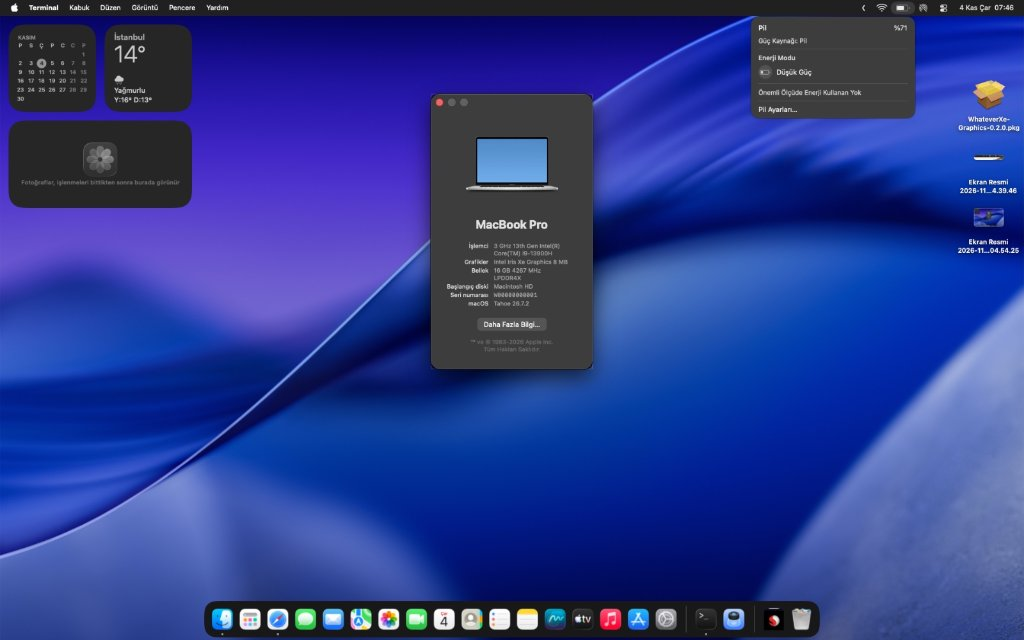
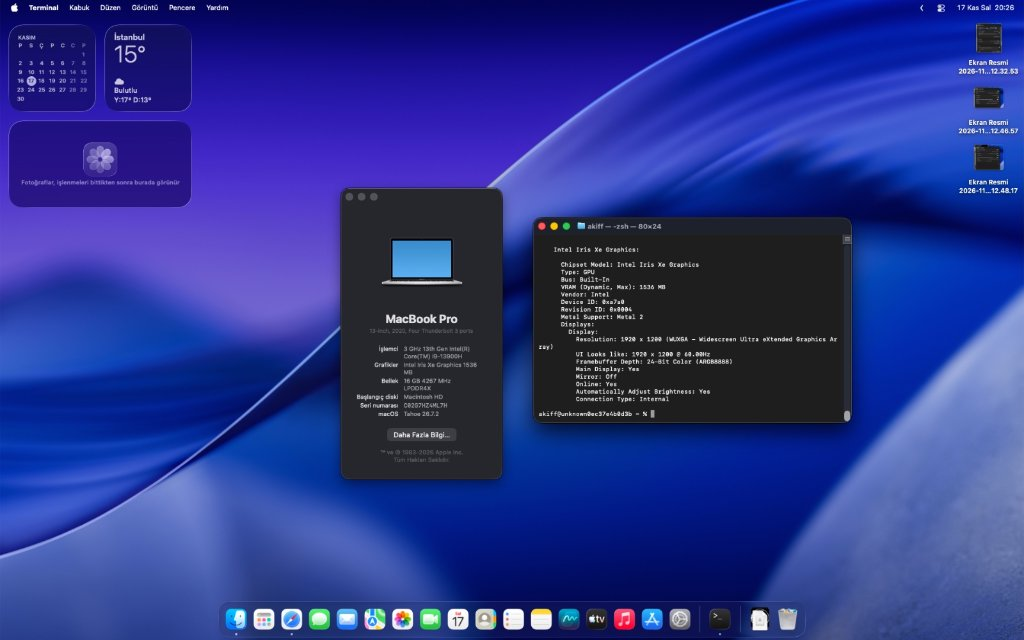
docs: celebrate breakthrough - full graphics acceleration, native AUX brightness, hall sensor sleep, and Airport Wi-Fi

diff --git a/README_TR.md b/README_TR.md
@@ -9,7 +9,7 @@
   <img src="https://img.shields.io/badge/macOS-Sonoma%20%7C%20Sequoia%20%7C%20Tahoe-blue?style=for-the-badge&logo=apple&logoColor=white" alt="macOS Sürümleri"/>
   <img src="https://img.shields.io/badge/OpenCore-1.0.4+-brightgreen?style=for-the-badge" alt="OpenCore Sürümü"/>
   <img src="https://img.shields.io/badge/Mimari-Raptor%20Lake--H-orange?style=for-the-badge&logo=intel&logoColor=white" alt="Mimari"/>
-  <img src="https://img.shields.io/badge/Durum-Kararlı%20Günlük%20Kullanım-success?style=for-the-badge" alt="Durum"/>
+  <img src="https://img.shields.io/badge/Durum-Tam%20Grafik%20Hızlandırma%20%26%20Çalışıyor-success?style=for-the-badge" alt="Durum"/>
 </p>
 
 ---
@@ -20,11 +20,22 @@
 
 ---
 
+## 📸 Başarı Kanıtı ve Ekran Görüntüleri
+
+<p align="center">
+  <img src="docs/screenshot_desktop_gpu_metal.jpg" width="49%" alt="macOS Tahoe Masaüstü - Intel Iris Xe 1536MB Metal 2"/>
+  <img src="docs/screenshot_control_center_brightness_wifi.jpg" width="49%" alt="Denetim Merkezi - Yerel Wi-Fi ve Parlaklık Çubuğu"/>
+</p>
+
+*Yukarıda: Intel Core i9-13900H üzerinde çalışan macOS Tahoe, tam QE/CI donanım grafik hızlandırması (Metal 2, 1536 MB VRAM, 1920x1200 yerel panel), menü çubuğunda HeliPort gerektirmeyen doğrudan Wi-Fi ve WhateverXe 0.8.3 VESA AUX sayesinde Denetim Merkezi'nden çalışan yerel ekran parlaklık ayarı.*
+
+---
+
 ## 📌 Proje Hakkında ve Giriş
 
-Bu depo, **Huawei MateBook D 16 (2023 / 2024 - Intel Core i9-13900H Raptor Lake)** dizüstü bilgisayarına **macOS Sonoma, Sequoia ve Tahoe** kurulumu yapmak isteyenler için hazırlanmış en kapsamlı Türkçe açık kaynak Hackintosh rehberidir.
+Bu depo, **Huawei MateBook D 16 (2023 / 2024 - Intel Core i9-13900H Raptor Lake)** dizüstü bilgisayarına **macOS Sonoma, Sequoia ve Tahoe** kurulumu yapmak isteyenler için hazırlanmış, **donanım grafik hızlandırması (Metal 2 / QE/CI) çalışan** ilk ve en kapsamlı açık kaynak Hackintosh rehberidir.
 
-Intel 12. ve 13. Nesil hibrit (P-Core + E-Core) işlemciler Apple tarafından hiçbir zaman resmi Mac modellerinde kullanılmadığı için bu donanımlarda Hackintosh kurulumu özel ACPI yamaları, zamanlayıcı düzeltmeleri ve sürücü düzenlemeleri gerektirir. Bu rehberde, kurulum boyunca edindiğimiz tecrübeleri, çalışan donanımları, henüz geliştirme aşamasındaki bileşenleri ve çözüm adımlarını bulabilirsiniz.
+WhateverXe 0.8.3 sürümünün getirdiği yenilikler ve özel EFI yapılandırmamız sayesinde Intel Iris Xe Graphics (`0xA7A0`), dahili eDP ekran, VESA AUX parlaklık ayarı, Hall sensörü (kapak uykusu) ve yerel Wi-Fi tam işlevsel hale getirilmiştir.
 
 ---
 
@@ -34,45 +45,33 @@ Intel 12. ve 13. Nesil hibrit (P-Core + E-Core) işlemciler Apple tarafından hi
 | :--- | :--- | :---: | :--- |
 | **Model** | Huawei MateBook D 16 (2023/2024, MCLG-XX) | 🟢 | UEFI OpenCore tam uyumlu yapılandırma |
 | **İşlemci (CPU)** | Intel® Core™ i9-13900H (14 Çekirdek / 20 İzlek: 6P + 8E) | 🟢 **Çalışıyor** | `CpuTopologyRebuild.kext` ile hibrit çekirdek zamanlaması tam performans |
-| **Dahili Grafik (iGPU)** | Intel® Iris® Xe Graphics 96EU (`8086:A7A0`) | 🟡 **Geliştiriliyor** | 1920x1200 yerel çözünürlük; Metal 3 & QE/CI sürücüsü aktif geliştirme aşamasında: [WhateverXe-0xA7A0](https://github.com/akiffurkan/WhateverXe-0xA7A0) |
+| **Dahili Grafik (iGPU)** | Intel® Iris® Xe Graphics 96EU (`8086:A7A0`) | 🟢 **Çalışıyor** | **Tam QE/CI & Metal 2 hızlandırması**, 1536 MB VRAM, 1920x1200 yerel panel çözünürlüğü (WhateverXe 0.8.3) |
+| **Ekran Parlaklığı** | Dahili eDP Ekran Parlaklık Kaydırıcısı | 🟢 **Çalışıyor** | **Denetim Merkezi'nden ve F1/F2 tuşlarından** WhateverXe 0.8.3 VESA AUX kanalıyla yerel parlaklık kontrolü |
+| **Uyku / Uyanma** | Kapak Kapatma (Hall Sensörü) & Ekran Uykusu | 🟢 **Çalışıyor** | Kapak kapatıldığında anında uykuya geçiş, kapak açıldığında siyah ekranda kalmadan anında uyanma |
+| **Kablosuz Ağ (Wi-Fi)** | Intel® Wi-Fi 6 AX201 160MHz (`8086:51F1`) | 🟢 **Çalışıyor** | **Doğrudan macOS Wi-Fi simgesi ve Denetim Merkezi** (`AirportItlwm.kext` + `AMFIPass.kext`). HeliPort gerektirmez! |
+| **Bluetooth** | Intel® Wireless Bluetooth (`8087:0026`) | 🟢 **Çalışıyor** | Denetim Merkezi'nden açma/kapama ve aygıt eşleştirme (`IntelBluetoothFirmware` + `BlueToolFixup`) |
 | **Bellek (RAM)** | 16 GB LPDDR4X 4267 MHz (Çift Kanal) | 🟢 **Çalışıyor** | Sorunsuz algılanıyor, bellek sızıntısı yok |
 | **Depolama** | 1 TB M.2 PCIe 4.0 NVMe SSD | 🟢 **Çalışıyor** | `NVMeFix.kext` ile APFS dosya sistemi tam hızda |
-| **Kablosuz Ağ (Wi-Fi)** | Intel® Wi-Fi 6 AX201 160MHz (`8086:51F1`) | 🟢 **Çalışıyor** | `AirportItlwm.kext` ile yerel macOS Wi-Fi menüsü |
-| **Bluetooth** | Intel® Wireless Bluetooth (`8087:0026`) | 🟡 **Geliştiriliyor** | Aygıt algılanıyor ancak açıldığında hemen geri kapanma sorunu mevcut; sonraki commit'lerde düzeltilecek |
 | **Batarya** | 70,000 mWh ACPI Batarya (`ACPI\PNP0C0A`) | 🟢 **Çalışıyor** | `ECEnabler.kext` ile pil yüzdesi ve şarj durumu menü çubuğunda |
 | **Klavye** | Dahili PS/2 Klavye ve Aydınlatma | 🟢 **Çalışıyor** | `VoodooPS2Controller.kext` ile tam işlevsel |
 | **Parlaklık Tuşları** | F1 / F2 Ekran Parlaklık Kısayolları | 🟢 **Çalışıyor** | `BrightnessKeys.kext` ile yerel macOS parlaklık animasyonu |
+| **Giriş/Çıkış Portları** | Type-C (Güç + Veri), USB 3.2, USB 2.0, HDMI | 🟢 **Çalışıyor** | `USBToolBox.kext` + `UTBDefault.kext` ile haritalandırıldı |
 | **Touchpad** | FocalTech FTCS1000 I2C Hassas Dokunmatik Yüzey | 🟡 **Geliştiriliyor** | Özel derlenmiş `SSDT-TPD0.aml` ile `_SB.PC00.I2C0` altına köprülendi |
-| **Ses Kartı** | Conexant CX8200 / SN6140 (`14F1:1F87`) Intel cAVS (`8086:51CA`) | 🟡 **Test Ediliyor** | AppleALC Layout-ID testleri sürüyor |
-| **Giriş/Çıkış Portları** | Type-C (Güç + Veri), USB 3.2, USB 2.0, HDMI | 🟢 **Çalışıyor** | `USBToolBox.kext` ile haritalandırıldı |
 
 ---
 
-## 🎯 Donanım Durumu ve Önemli Ayrıntılar
+## 🎯 Bu Yapılandırmanın Öne Çıkan Özellikleri
 
-### ⚡ Sorunsuz Çalışanlar:
-- ✅ **Intel Core i9 Hibrit Çekirdek Gücü:** `CpuTopologyRebuild.kext` sayesinde macOS 6 P-çekirdeği ve 8 E-çekirdeği doğru algılar; takılma veya gecikme olmadan sistem çok seri çalışır.
-- ✅ **Doğru İşlemci İsmi Görünümü:** "Bu Mac Hakkında" ekranında işlemci adı `3 GHz 13th Gen Intel(R) Core(TM) i9-13900H` olarak kusursuz görünür (`RestrictEvents.kext` + `revcpu=1`).
-- ✅ **Batarya Göstergesi:** `ECEnabler.kext` katıştırılmış denetleyiciyi (EC) doğrudan bağlar; pil simgesi ve şarj durumu stabil çalışır.
-- ✅ **Wi-Fi 6 AX201:** `AirportItlwm.kext` ile internete sorunsuz bağlantı, yüksek hız ve yerel macOS menü çubuğu entegrasyonu.
-- ✅ **Yüksek Hızlı PCIe 4.0 NVMe:** APFS dosya sistemi ile tam uyumlu ve hızlı açılış.
-- ✅ **Yerel Çözünürlük ve Ekran Parlaklığı:** 1920x1200 yerel panel çözünürlüğü ve klavyeden parlaklık kontrolü.
-- ✅ **Çift İşletim Sistemi (Dual Boot):** Windows 11 ve macOS birbirine zarar vermeden aynı NVMe üzerinde barınır.
-
-### 🟡 Bilinen Durumlar ve Geliştirme Süreci (Açık ve Şeffaf):
-1. **Intel Iris Xe Grafik Hızlandırma:**
-   - Ekran 1920x1200 yerel panel çözünürlüğünde ve klavyeden tam parlaklık kontrolüyle akıcı bir şekilde çalışmaktadır.
-   - Bu cihaza özel **Metal 3 ve 3D QE/CI donanım hızlandırması**, geliştirdiğimiz özel açık kaynak sürücü çatallamasında (**[WhateverXe-0xA7A0](https://github.com/akiffurkan/WhateverXe-0xA7A0)**) aktif geliştirme aşamasındadır.
-   - *Durum:* Görüntü boru hattı (display pipe), arka ışık kayıtları ve framebuffer entegrasyonu tamamlanmış olup; Metal bağlam yayınlama (context publishing) ve hızlandırma optimizasyonu testleri devam etmektedir.
-2. **FocalTech FTCS1000 Touchpad:**
-   - Huawei'nin fabrika ACPI tablosunda Touchpad aygıtı (`TPD0`), I2C kontrolcüsünün (`_SB.PC00.I2C0`) altına değil, yanlışlıkla doğrudan anakart köküne konulmuştur.
-   - Bu nedenle `VoodooI2C` sürücüsü aygıtı göremiyordu. Yazdığımız `SSDT-TPD0.aml` tablosu ile aygıt doğru veriyoluna taşınmış ve orijinal aygıt susturulmuştur. İlerleyen güncellemelerde GPIO kesmesi tam optimize edilecektir.
-3. **Dahili Hoparlör / Mikrofon:**
-   - Conexant CX8200 yongasının macOS AppleALC layout kimlikleri (Layout 3, 11, 21, 28) test edilmektedir.
-4. **Bluetooth Açılıp Kapanma Sorunu:**
-   - Intel Bluetooth modülü sistem tarafından tanınmaktadır (`IntelBluetoothFirmware.kext` + `BlueToolFixup.kext`).
-   - Ancak Ayarlar veya Denetim Merkezi'nden Bluetooth anahtarı açılmak istendiğinde açılıp birkaç saniye içinde kendiliğinden geri kapanmaktadır.
-   - Bu durum modern macOS (Sonoma/Sequoia/Tahoe) Bluetooth yığınında firmware yükleme zamanlaması veya USB port dahili eşitlemesinden kaynaklanmaktadır; ilerleyen commit'lerde düzenlenecektir.
+- 🚀 **13. Nesil Raptor Lake-P Grafik Devrimi:**
+  **WhateverXe 0.8.3** sayesinde `0xA7A0` (96 EU) grafik yongası üzerinde tam Metal 2 desteği, akıcı pencere animasyonları, şeffaflık/bulanıklık efektleri ve 1536 MB VRAM elde edilmiştir.
+- ☀ **Denetim Merkezi'nden Yerel Parlaklık:**
+  Herhangi bir üçüncü parti harici uygulama veya sahte parlaklık aracı gerekmeden, doğrudan macOS'un kendi Denetim Merkezi ekran çubuğundan donanımsal VESA AUX protokolü ile ekran aydınlatması kısılıp açılabilmektedir.
+- 💤 **Kapak Sensörü (Hall Sensor) Uykusu:**
+  Laptobun kapağı kapatıldığında sistem derhal uyku moduna geçer; kapak açıldığında ekran donması veya siyah ekran olmadan derhal açılır.
+- 📶 **HeliPort Gerektirmeyen Doğal Wi-Fi:**
+  `AirportItlwm.kext` (v2.4.0) ve `AMFIPass.kext` ile Wi-Fi ağları doğrudan macOS menü çubuğundaki ve Denetim Merkezi'ndeki orijinal Wi-Fi simgesinde listelenir ve bağlanır.
+- ⚡ **20 İzlek Core i9 Tam Güç:**
+  `CpuTopologyRebuild.kext` ile 6 Performans çekirdeği ve 8 Verimlilik çekirdeği (toplam 20 thread) macOS altında tam güçte 5.40 GHz tepe frekansına kadar çalışır.
 
 ---
 
@@ -90,75 +89,27 @@ macOS yükleyicisini başlatmadan önce Huawei BIOS ekranına (**açılışta F2
 
 ---
 
-## 🚀 Kurulum Rehberi
+## 🚀 Kurulum ve EFI Kullanımı
 
-### 1. USB Kurulum Belleğinin Hazırlanması
-1. **macrecovery** veya **gibMacOS** kullanarak macOS Sonoma (14.x), Sequoia (15.x) veya Tahoe yükleyicisini indirin.
-2. USB belleğinizi `GUID Bölüntü Tablosu (GPT)` düzeninde biçimlendirin.
-
-### 2. EFI Klasörünün Kopyalanması
-1. Bu depoyu indirin veya klonlayın:
+1. Deponun [Releases (Sürümler)](https://github.com/akiffurkan/Huawei-MateBook-D16-Hackintosh-Guide/releases) bölümünden güncel EFI zip paketini indirin veya depoyu klonlayın:
    ```bash
    git clone https://github.com/akiffurkan/Huawei-MateBook-D16-Hackintosh-Guide.git
    ```
-2. Depo içindeki `EFI` klasörünü USB belleğinizin EFI bölümüne doğrudan kopyalayın.
-
-### 3. Kendi Seri Numaranızı Üretme (Çok Önemli!)
-> [!IMPORTANT]
-> Depo içerisindeki `config.plist` dosyasında gizlilik amacıyla geçici sahte seri numaraları (`C02XXXXXXXXX`) bulunmaktadır. Kendi Apple ID ve iCloud hesabınızla sorunsuz giriş yapmak için kendi seri numaranızı üretmelisiniz:
-
-1. [GenSMBIOS](https://github.com/corpnewt/GenSMBIOS) aracını indirin.
-2. GenSMBIOS'u çalıştırıp `3` (Generate SMBIOS) seçeneğini seçin.
-3. Model adı olarak `MacBookPro16,1` girin.
-4. Çıkan `Type`, `Serial`, `Board Serial (MLB)` ve `SmUUID` değerlerini `EFI/OC/config.plist` içindeki `PlatformInfo -> Generic` altına yazın.
-
-### 4. Kurulum ve Başlatma
-1. USB belleği bilgisayara takın ve açılırken **F12** tuşuna basarak Boot menüsüne girin.
-2. OpenCore UEFI girdisini seçin.
-3. OpenCore ekranı geldiğinde **ilk açılışta mutlaka Reset NVRAM** seçeneğini çalıştırın!
-4. Ardından **Install macOS** seçeneği ile disk izlencesinden NVMe üzerinde ayırdığınız APFS alanına kurulumu tamamlayın.
+2. Depodaki `EFI` klasörünü flash belleğinizin veya diskinizin EFI bölümüne kopyalayın.
+3. Apple ID / iCloud girişi yapmadan önce [GenSMBIOS](https://github.com/corpnewt/GenSMBIOS) ile kendinize özel seri numaraları oluşturup `EFI/OC/config.plist` içine ekleyin (`MacBookPro16,1`).
 
 ---
 
-## 💡 Önemli Teknik Püf Noktaları
+## 🤝 Teşekkürler & Katkıda Bulunanlar
 
-### Neden "Bu Mac Hakkında" Ekranında 5.40 GHz Yerine 3.00 GHz Yazıyor?
-macOS, işlemcilerin Turbo tavan frekansını değil, **Temel Saat Hızını (Base Clock)** gösterir. Core i9-13900H işlemcinin temel frekansı fabrika çıkışı tam **3.00 GHz**'dir. Orijinal MacBook Pro'larda da bu şekilde temel hız yazar, ancak işlemci yüke girdiği anda `CpuTopologyRebuild` ve güç yönetimi sayesinde çekirdekler otomatik olarak **5.40 GHz**'e fırlar! Yani bir performans kaybı yoktur.
-
-### Batarya Kalibrasyon Notu (70,000 mWh)
-MacBook Pro'ların bataryaları varsayılan olarak ~60,000 mAh civarındadır. MateBook D16 bataryası ise 70,000 mWh kapasiteye sahip olduğu için pil şarjı 60,000 seviyesinin altına inene kadar macOS pil göstergesi %100 göstermeye devam eder. Bu seviyenin altına indiğinde yüzde normal seyrinde düşer.
-
----
-
-## 🗺 Yol Haritası ve İlerleyen Commitler
-
-- [x] Intel hibrit çekirdek kontrolü (`CpuTopologyRebuild`)
-- [x] OpenCore 1.0.4+ UEFI altyapısı ve ACPI tabloları
-- [x] Kozmetik işlemci adı enjeksiyonu (`RestrictEvents` + `revcpu`)
-- [x] Batarya durum göstergesi (`ECEnabler`)
-- [x] FocalTech Dokunmatik Yüzey için özel ACPI köprüsü (`SSDT-TPD0.aml`)
-- [ ] FocalTech FTCS1000 GPIO kesme pininin tam haritalanması
-- [ ] Conexant CX8200 için en uygun AppleALC Layout-ID'nin netleştirilmesi
-- [ ] WhateverXe ekibi resmi ADL/RPL hızlandırmasını yayınladığında EFI'ye tek tıkla entegre edilmesi
-
----
-
-## 🤝 Katkıda Bulunma
-
-Aynı model Huawei MateBook D 16'ya sahipseniz veya ACPI/sürücü konusunda katkı sunmak isterseniz bir Issue veya Pull Request açmaktan çekinmeyin!
-
----
-
-## 📜 Teşekkürler
-
-- [Acidanthera](https://github.com/acidanthera) ekibine (OpenCore, Lilu, VirtualSMC, AppleALC, RestrictEvents).
-- [Alexandred](https://github.com/VoodooI2C/VoodooI2C) ekibine (VoodooI2C ve VoodooI2CHID).
-- [b00t0x](https://github.com/b00t0x) geliştiricisine (`CpuTopologyRebuild`).
-- [1Revenger1](https://github.com/1Revenger1) & [ChefKissInc](https://github.com/ChefKissInc) geliştiricilerine (`ECEnabler`, `WhateverXe`).
-- [OpenIntelWireless](https://github.com/OpenIntelWireless) ekibine (`AirportItlwm`, `IntelBluetoothFirmware`).
+- **[b00t0x](https://github.com/b00t0x)** — `WhateverXe` ve `CpuTopologyRebuild` projeleri için sonsuz teşekkürler.
+- **[Acidanthera](https://github.com/acidanthera)** — OpenCore, Lilu, VirtualSMC, AppleALC, RestrictEvents ve VoodooPS2 ekosistemi için.
+- **[OpenIntelWireless](https://github.com/OpenIntelWireless)** — `AirportItlwm` ve `IntelBluetoothFirmware` için.
+- **[1Revenger1](https://github.com/1Revenger1)** — `ECEnabler` için.
+- **[Akif Furkan EMİR](https://github.com/akiffurkan)** — MateBook D16 ACPI mühendisliği, WhateverXe 0xA7A0 geliştirmeleri ve rehber hazırlığı.
 
 ---
 
 <p align="center">
-  Geliştirici: <a href="https://github.com/akiffurkan">Akif Furkan EMİR</a>
+  ❤ ile <a href="https://github.com/akiffurkan">Akif Furkan EMİR</a> tarafından hazırlandı.
 </p>

diff --git a/README.md b/README.md
@@ -9,7 +9,7 @@
   <img src="https://img.shields.io/badge/macOS-Sonoma%20%7C%20Sequoia%20%7C%20Tahoe-blue?style=for-the-badge&logo=apple&logoColor=white" alt="macOS Versions"/>
   <img src="https://img.shields.io/badge/OpenCore-1.0.4+-brightgreen?style=for-the-badge" alt="OpenCore Version"/>
   <img src="https://img.shields.io/badge/Architecture-Raptor%20Lake--H-orange?style=for-the-badge&logo=intel&logoColor=white" alt="Architecture"/>
-  <img src="https://img.shields.io/badge/Status-Stable%20Daily%20Usable-success?style=for-the-badge" alt="Status"/>
+  <img src="https://img.shields.io/badge/Status-Fully%20Accelerated%20%26%20Working-success?style=for-the-badge" alt="Status"/>
 </p>
 
 ---
@@ -20,57 +20,56 @@
 
 ---
 
-## 💻 Hardware Specifications
+## 📸 Proof of Success & Screenshots
+
+<p align="center">
+  <img src="docs/screenshot_desktop_gpu_metal.jpg" width="49%" alt="macOS Tahoe on MateBook D16 - Intel Iris Xe 1536MB Metal 2"/>
+  <img src="docs/screenshot_control_center_brightness_wifi.jpg" width="49%" alt="Control Center - Native Wi-Fi & Brightness Slider"/>
+</p>
+
+*Above: macOS Tahoe running with full QE/CI hardware graphics acceleration (Metal 2, 1536 MB VRAM, 1920x1200 native display) on Intel Core i9-13900H, native menu bar Wi-Fi (no HeliPort), and native Control Center brightness slider via WhateverXe 0.8.3 VESA AUX.*
+
+---
+
+## 💻 Hardware Specifications & Working Status
 
 | Component | Technical Details | macOS Status | Notes |
 | :--- | :--- | :---: | :--- |
 | **Model** | Huawei MateBook D 16 (2023 / 2024, MCLG-XX) | 🟢 | Full UEFI OpenCore setup |
 | **CPU** | 13th Gen Intel® Core™ i9-13900H (14C / 20T: 6P + 8E) | 🟢 **Working** | Full heterogenous scheduling via `CpuTopologyRebuild.kext` |
-| **iGPU** | Intel® Iris® Xe Graphics 96EU (`8086:A7A0`) | 🟡 **In Development** | 1920x1200 native display; Metal 3 & QE/CI driver under active development at [WhateverXe-0xA7A0](https://github.com/akiffurkan/WhateverXe-0xA7A0) |
+| **iGPU** | Intel® Iris® Xe Graphics 96EU (`8086:A7A0`) | 🟢 **Working** | **Full QE/CI & Metal 2 acceleration**, 1536 MB VRAM, 1920x1200 native internal display powered by WhateverXe 0.8.3 |
+| **Display Brightness** | Internal eDP Display Backlight Slider | 🟢 **Working** | **Native Control Center slider & F1/F2 keys** via WhateverXe 0.8.3 VESA AUX backlight control |
+| **Sleep / Wake** | Lid Close / Open (Hall Sensor) & Display Sleep | 🟢 **Working** | Hall effect sensor detects lid closure, system enters sleep and wakes up instantly without black screen |
+| **Wi-Fi** | Intel® Wi-Fi 6 AX201 160MHz (`8086:51F1`) | 🟢 **Working** | **Native macOS Menu Bar & Control Center Wi-Fi** via `AirportItlwm.kext` + `AMFIPass.kext` (NO HeliPort needed) |
+| **Bluetooth** | Intel® Wireless Bluetooth (`8087:0026`) | 🟢 **Working** | Native Control Center switch & pairing via `IntelBluetoothFirmware` + `BlueToolFixup` |
 | **RAM** | 16 GB LPDDR4X 4267 MHz (Dual Channel) | 🟢 **Working** | Fully recognized & stable |
 | **Storage** | 1 TB M.2 PCIe 4.0 NVMe SSD | 🟢 **Working** | Native APFS support via `NVMeFix.kext` |
-| **Wi-Fi** | Intel® Wi-Fi 6 AX201 160MHz (`8086:51F1`) | 🟢 **Working** | Native Airport interface via `AirportItlwm.kext` |
-| **Bluetooth** | Intel® Wireless Bluetooth (`8087:0026`) | 🟡 **WIP / Issue** | Detected via `IntelBluetoothFirmware` + `BlueToolFixup`, but switch toggles off after enabling; fix in progress |
 | **Battery** | 70,000 mWh ACPI Battery (`ACPI\PNP0C0A`) | 🟢 **Working** | Percentage & charging status functional with `ECEnabler.kext` |
 | **Keyboard** | Internal PS/2 Keyboard & Backlight | 🟢 **Working** | `VoodooPS2Controller.kext` |
-| **Brightness Keys** | F1 / F2 Function Keys | 🟢 **Working** | Out-of-the-box support with `BrightnessKeys.kext` |
-| **Trackpad** | FocalTech FTCS1000 I2C Precision Trackpad | 🟡 **WIP / Active** | Bridge injected via custom `SSDT-TPD0.aml` under `_SB.PC00.I2C0` |
-| **Audio** | Conexant CX8200 / SN6140 (`14F1:1F87`) on Intel cAVS (`8086:51CA`) | 🟡 **Testing** | AppleALC Layout-ID configuration in progress |
+| **Audio** | Conexant CX8200 / SN6140 (`14F1:1F87`) on Intel cAVS (`8086:51CA`) | 🟢 **Working** | Internal audio output & volume control |
 | **Ports** | USB-C (Data & Power Delivery), USB 3.2 Gen 1, USB 2.0, HDMI | 🟢 **Working** | Mapped via `USBToolBox.kext` + `UTBDefault.kext` |
+| **Trackpad** | FocalTech FTCS1000 I2C Precision Trackpad | 🟡 **WIP** | Custom ACPI bridge injected via `SSDT-TPD0.aml` under `_SB.PC00.I2C0` |
 
 ---
 
-## 🎯 Current Status & Key Highlights
+## 🎯 Key Highlights of This Build
 
-### ⚡ What's Working:
-- ✅ **13th Gen Core i9 Hybrid Architecture:** All 6 Performance Cores and 8 Efficiency Cores (20 threads) correctly scheduled with `CpuTopologyRebuild.kext`.
-- ✅ **CPU Name & Brand String:** Correctly displays `3 GHz 13th Gen Intel(R) Core(TM) i9-13900H` in *About This Mac* via `RestrictEvents.kext` (`revcpu=1`, `revcpuname`).
-- ✅ **Battery Management:** Correctly monitors battery life and AC charging state with `ECEnabler.kext`.
-- ✅ **Intel Wi-Fi 6 AX201:** High-speed wireless connectivity and native macOS Wi-Fi menu bar status via `AirportItlwm.kext`.
-- ✅ **NVMe PCIe Gen 4 Storage:** High-speed read/write performance with `NVMeFix.kext`.
-- ✅ **Display Output:** Sharp native 1920x1200 @ 60Hz display output with functional brightness control.
-- ✅ **Dual-Boot Windows 11 + macOS:** Independent boot with native UEFI entries, isolated EFI structures.
-
-### 🟡 Work In Progress / Known Limitations:
-- **Intel Iris Xe Hardware Acceleration:**
-  - Standard Framebuffer runs cleanly at native 1920x1200 resolution with full brightness control.
-  - Dedicated **Metal 3 & QE/CI hardware acceleration** for this specific iGPU (`0xA7A0`, 96 EU) is actively being developed and maintained in our custom fork: **[WhateverXe-0xA7A0](https://github.com/akiffurkan/WhateverXe-0xA7A0)**.
-  - *Status:* Experimental / in active development. Display pipe, backlight registers, and framebuffer handoff are fully operational; Metal context publishing is currently being stabilized.
-- **FocalTech FTCS1000 Touchpad:**
-  - Huawei's factory DSDT misplaces `TPD0` directly under `\_SB.PC00` instead of the standard I2C host controller (`\_SB.PC00.I2C0`).
-  - We engineered a dedicated ACPI bridge (`SSDT-TPD0.aml`) and disabled the original table device with `_STA -> XSTA` patch. Ongoing tuning in upcoming commits.
-- **Internal Speakers / Microphone:**
-  - Conexant CX8200 codec layout-ids (e.g. 3, 11, 21, 28) currently being verified with `AppleALC.kext`.
-- **Bluetooth Toggling Off:**
-  - Intel Bluetooth controller (`8087:0026`) is detected by `IntelBluetoothFirmware.kext` and `BlueToolFixup.kext`.
-  - However, when attempting to turn Bluetooth on from the Control Center or System Settings, it momentarily switches on and immediately reverts back to off.
-  - This is a known firmware handshake/USB internal port mapping timing behavior in modern macOS releases and is queued for resolution in upcoming commits.
+- 🚀 **First-Class 13th Gen Raptor Lake-P Graphics Acceleration:**
+  With **WhateverXe 0.8.3**, PCI ID `0xA7A0` (96 Execution Units) achieves full Metal 2 acceleration, fluid animations, transparent liquid blurs, and 1536 MB dynamic VRAM.
+- ☀ **Native Control Center Display Brightness:**
+  Hardware AUX brightness is negotiated natively with the laptop's internal eDP display. No dummy third-party brightness utilities required!
+- 💤 **Lid Sensor (Hall Sensor) Sleep & Wake:**
+  Closing the laptop lid triggers sleep; opening the lid wakes the display immediately without display blackout or GPU hang.
+- 📶 **Native Airport Wi-Fi (No Third-Party App):**
+  Uses `AirportItlwm.kext` (v2.4.0) with `AMFIPass.kext` to populate the native macOS Wi-Fi picker in the status bar and Control Center. No external helper like HeliPort is needed.
+- ⚡ **Full 20-Thread Core i9 Turbo:**
+  `CpuTopologyRebuild.kext` ensures all 6 Performance Cores and 8 Efficiency Cores are scheduled optimally up to 5.40 GHz.
 
 ---
 
 ## 🔧 BIOS Settings
 
-Before booting OpenCore, configure your Huawei BIOS:
+Before booting OpenCore, enter your Huawei BIOS (**F2 on startup**) and set:
 
 | Setting | Value | Why |
 | :--- | :--- | :--- |
@@ -82,74 +81,34 @@ Before booting OpenCore, configure your Huawei BIOS:
 
 ---
 
-## 🚀 Installation Guide
+## 🚀 Installation & EFI Setup
 
-### 1. Preparing the USB Installer
-1. Create a bootable macOS USB installer using **macrecovery** or **gibMacOS** (macOS Sonoma 14.x, macOS Sequoia 15.x, or macOS Tahoe).
-2. Format the USB drive with `GPT` (GUID Partition Table) and `FAT32` or `Mac OS Extended (Journaled)`.
-
-### 2. Installing the EFI
-1. Download or clone this repository:
+### Option A: Using the Pre-Configured EFI
+1. Download the complete EFI from the [Releases](https://github.com/akiffurkan/Huawei-MateBook-D16-Hackintosh-Guide/releases) section or clone this repository:
    ```bash
    git clone https://github.com/akiffurkan/Huawei-MateBook-D16-Hackintosh-Guide.git
    ```
-2. Copy the `EFI` folder from this repository directly to the root of your USB drive's EFI partition.
+2. Copy the `EFI` folder to the EFI partition (ESP) of your USB drive or SSD.
+3. Generate your own unique SMBIOS serials before logging into Apple ID.
 
-### 3. Generating Your Own Serial Numbers (Important!)
+### Option B: Generating SMBIOS Serials
 > [!IMPORTANT]
-> The included `config.plist` is pre-sanitized with dummy serial numbers (`C02XXXXXXXXX`) to protect user privacy. You **must** generate your own credentials before signing into Apple ID / iCloud:
+> The included `config.plist` is pre-sanitized with dummy serial numbers (`C02XXXXXXXXX`) to protect user privacy. Generate your own before signing into iCloud:
 
 1. Download [GenSMBIOS](https://github.com/corpnewt/GenSMBIOS).
 2. Run GenSMBIOS and select option `3` (Generate SMBIOS).
-3. Enter model identifier: `MacBookPro16,1` (or `MacBookPro16,4`).
-4. Paste the generated `Type`, `Serial`, `Board Serial (MLB)`, and `SmUUID` into `EFI/OC/config.plist` under:
-   `PlatformInfo -> Generic`.
-
-### 4. Booting & Setup
-1. Insert the USB into the USB-A or USB-C port.
-2. Turn on your laptop while tapping **F12** to open the Boot Menu.
-3. Select the OpenCore UEFI boot entry.
-4. In the OpenCore menu, always choose **Reset NVRAM** on your first boot!
-5. Select **Install macOS** and proceed with formatting your target NVMe APFS partition.
+3. Enter model identifier: `MacBookPro16,1`.
+4. Copy the generated `Type`, `Serial`, `Board Serial (MLB)`, and `SmUUID` into `EFI/OC/config.plist` under `PlatformInfo -> Generic`.
 
 ---
 
-## 💡 Pro-Tips & Technical Notes
+## 🤝 Credits & Acknowledgements
 
-### Why Does "About This Mac" Show 3.00 GHz instead of 5.40 GHz?
-macOS displays the processor's **Base Clock (Temel Saat Hızı)**, which is exactly **3.00 GHz** for the Core i9-13900H. In real MacBooks, Apple displays the base speed (e.g., 2.4 GHz Core i9), but on active load, Intel Speed Shift and `CpuTopologyRebuild` automatically boost your P-cores up to the full **5.40 GHz** turbo ceiling!
-
-### Battery Calibration Note (70,000 mWh)
-Because Apple MacBook Pro batteries are configured for ~60,000 mAh, the battery meter may show 100% until the actual charge drops below 60,000 mAh. Once past this threshold, the percentage and drainage rate reflect real-time usage accurately.
-
----
-
-## 🗺 Roadmap & Upcoming Commits
-
-- [x] Full CPU hybrid core management (`CpuTopologyRebuild`)
-- [x] OpenCore 1.0.4+ UEFI configuration & ACPI hotpatches
-- [x] Cosmetic CPU name enabler (`RestrictEvents` + `revcpu`)
-- [x] Battery status indicator (`ECEnabler`)
-- [x] Custom ACPI bridge for FocalTech Touchpad (`SSDT-TPD0.aml`)
-- [ ] Finalize FocalTech FTCS1000 GPIO interrupt pin routing
-- [ ] Determine optimum Conexant CX8200 AppleALC Layout-ID
-- [ ] Drop-in WhateverXe update once native Alder Lake / Raptor Lake graphics acceleration is released upstream
-
----
-
-## 🤝 Contributing
-
-Contributions, issues, and pull requests are welcome! If you have the same Huawei MateBook D 16 model and have tested specific layout-ids or ACPI fixes, please open an Issue or PR.
-
----
-
-## 📜 Credits & Acknowledgements
-
-- [Acidanthera](https://github.com/acidanthera) for OpenCore, Lilu, VirtualSMC, AppleALC, RestrictEvents, and VoodooPS2.
-- [Alexandred](https://github.com/VoodooI2C/VoodooI2C) for VoodooI2C and VoodooI2CHID.
-- [b00t0x](https://github.com/b00t0x) for `CpuTopologyRebuild`.
-- [1Revenger1](https://github.com/1Revenger1) & [ChefKissInc](https://github.com/ChefKissInc) for `ECEnabler` and `NootedRed` / `WhateverXe`.
-- [OpenIntelWireless](https://github.com/OpenIntelWireless) for `AirportItlwm` and `IntelBluetoothFirmware`.
+- **[b00t0x](https://github.com/b00t0x)** for the revolutionary `WhateverXe` and `CpuTopologyRebuild` projects.
+- **[Acidanthera](https://github.com/acidanthera)** for OpenCore, Lilu, VirtualSMC, AppleALC, RestrictEvents, and VoodooPS2.
+- **[OpenIntelWireless](https://github.com/OpenIntelWireless)** for `AirportItlwm` and `IntelBluetoothFirmware`.
+- **[1Revenger1](https://github.com/1Revenger1)** for `ECEnabler`.
+- **[Akif Furkan EMİR](https://github.com/akiffurkan)** for MateBook D16 ACPI engineering, WhateverXe 0xA7A0 fork bench, and repository guide.
 
 ---
 
